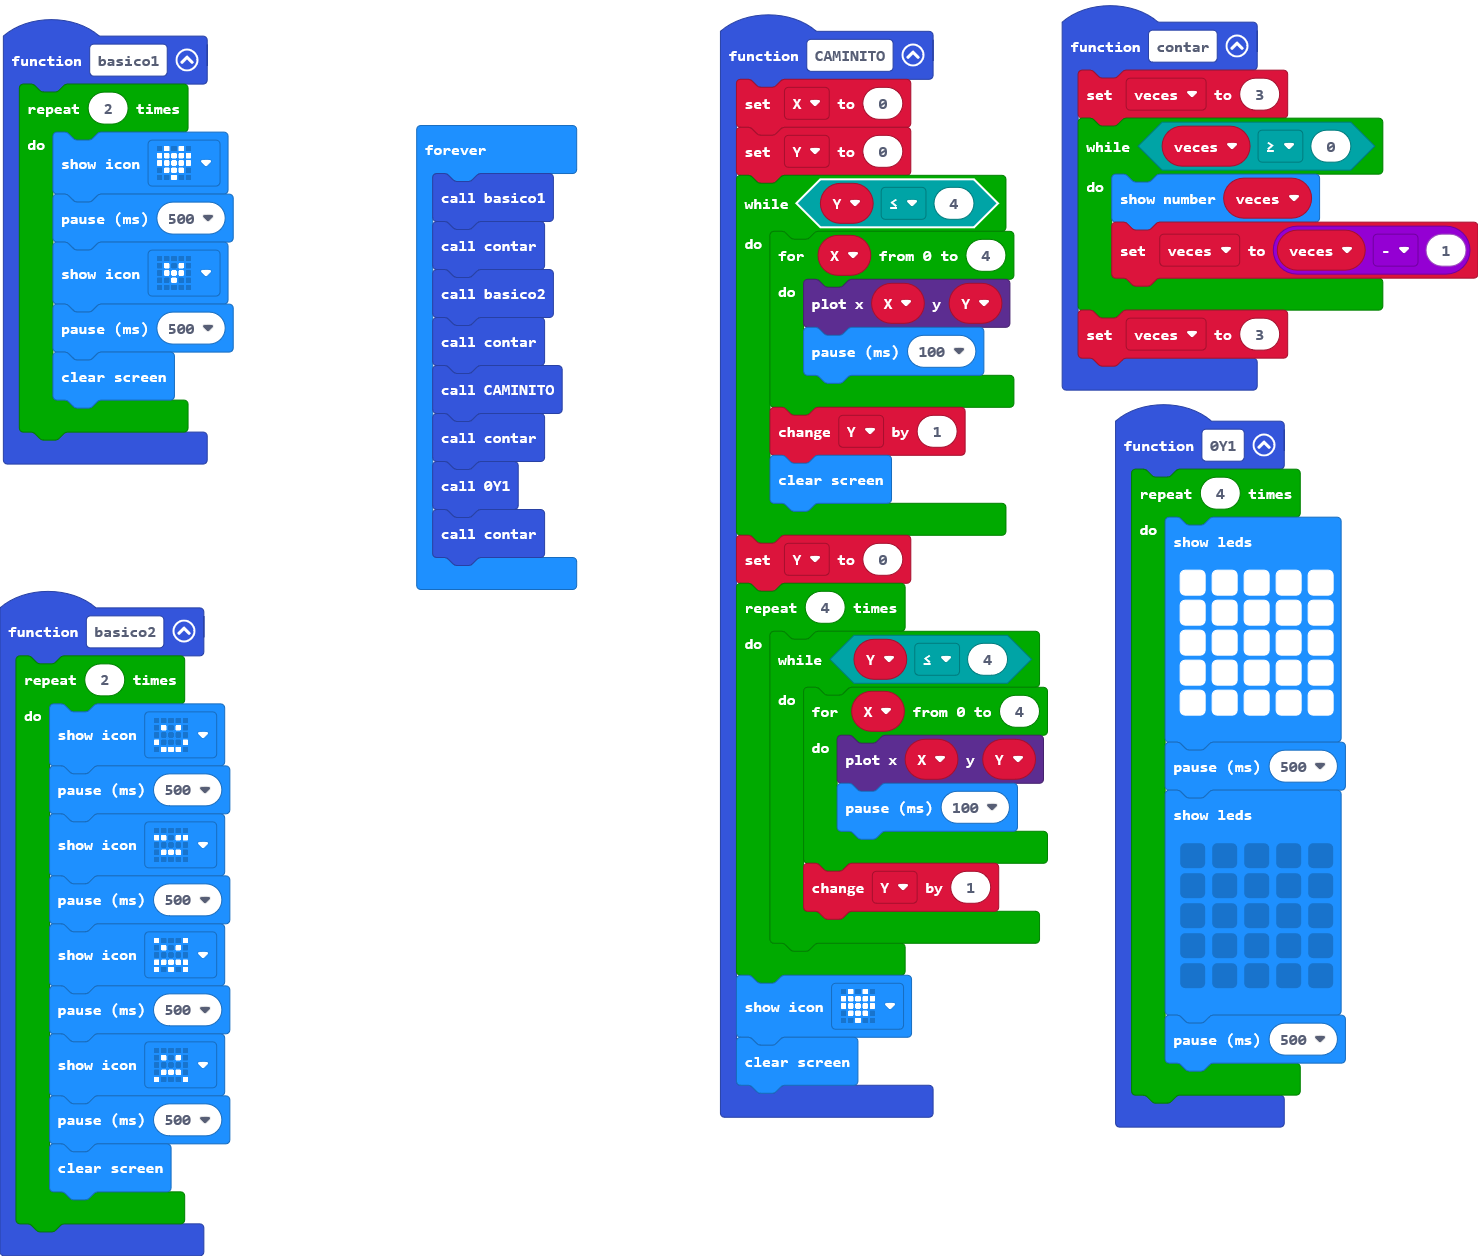
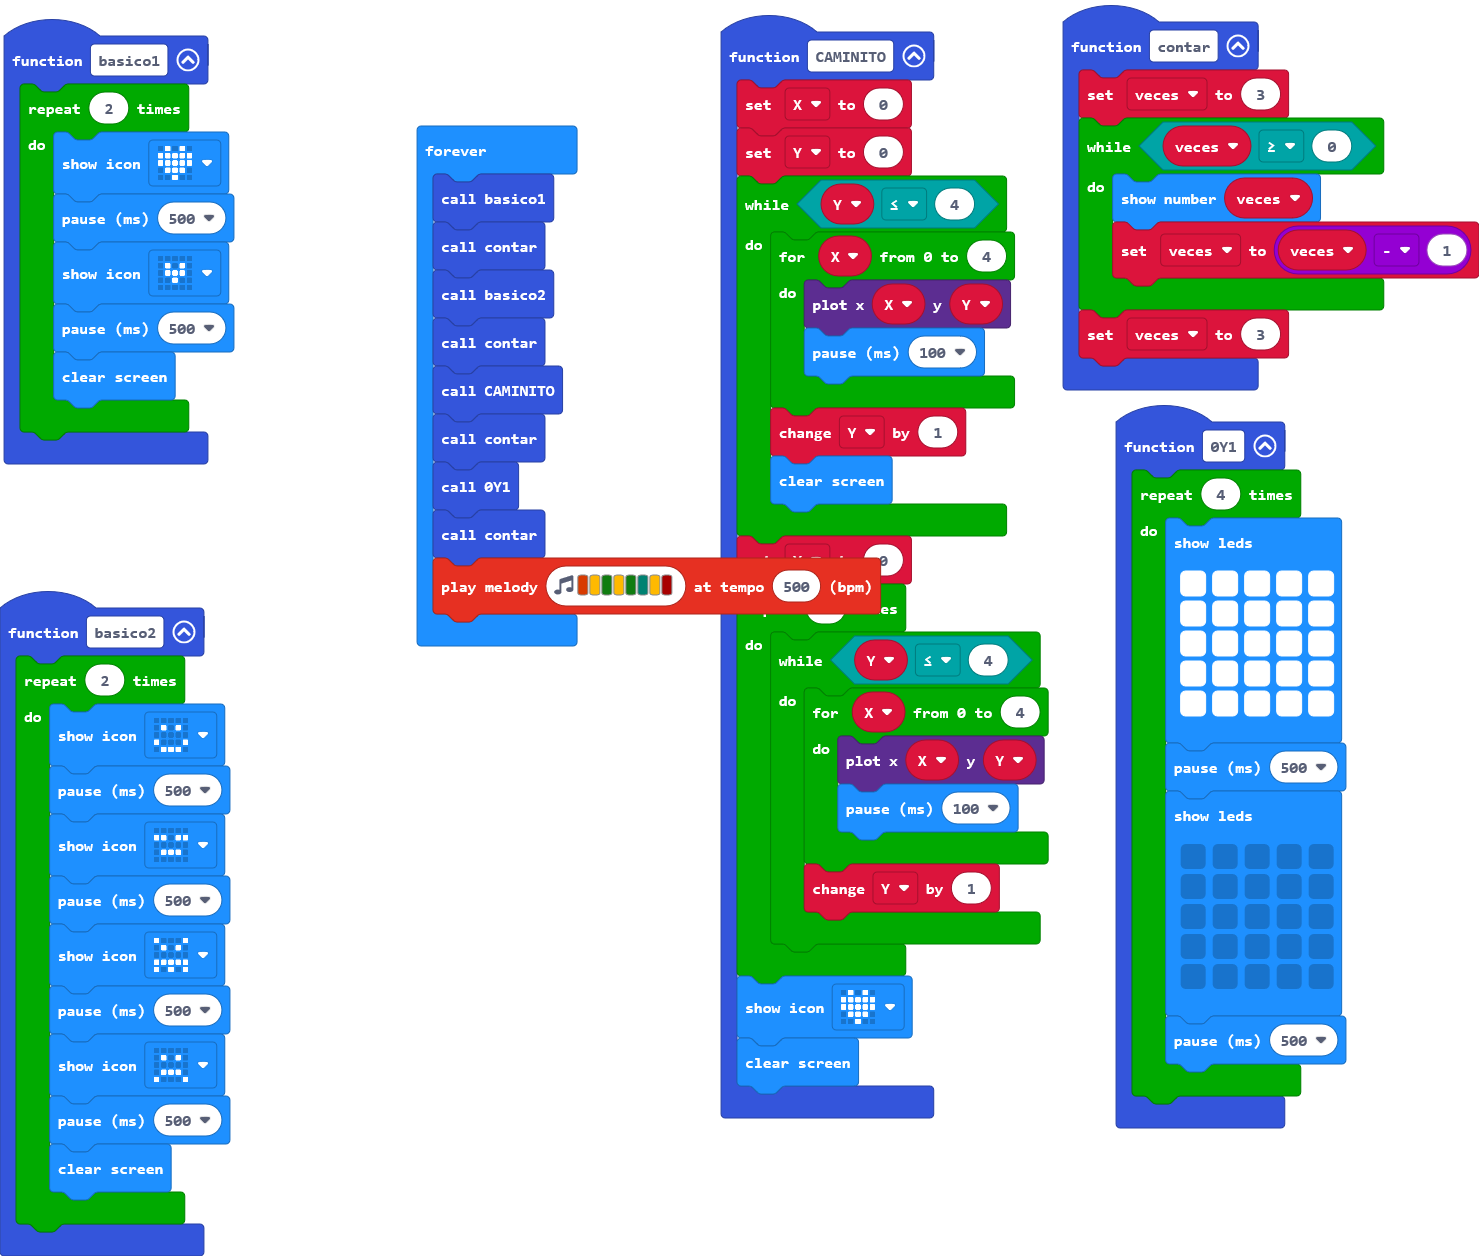
Update main.blocks, main.ts

diff --git a/main.ts b/main.ts
@@ -84,4 +84,5 @@ basic.forever(function () {
     contar()
     _0Y1()
     contar()
+    music.playMelody("B A G A G F A C5 ", 500)
 })
